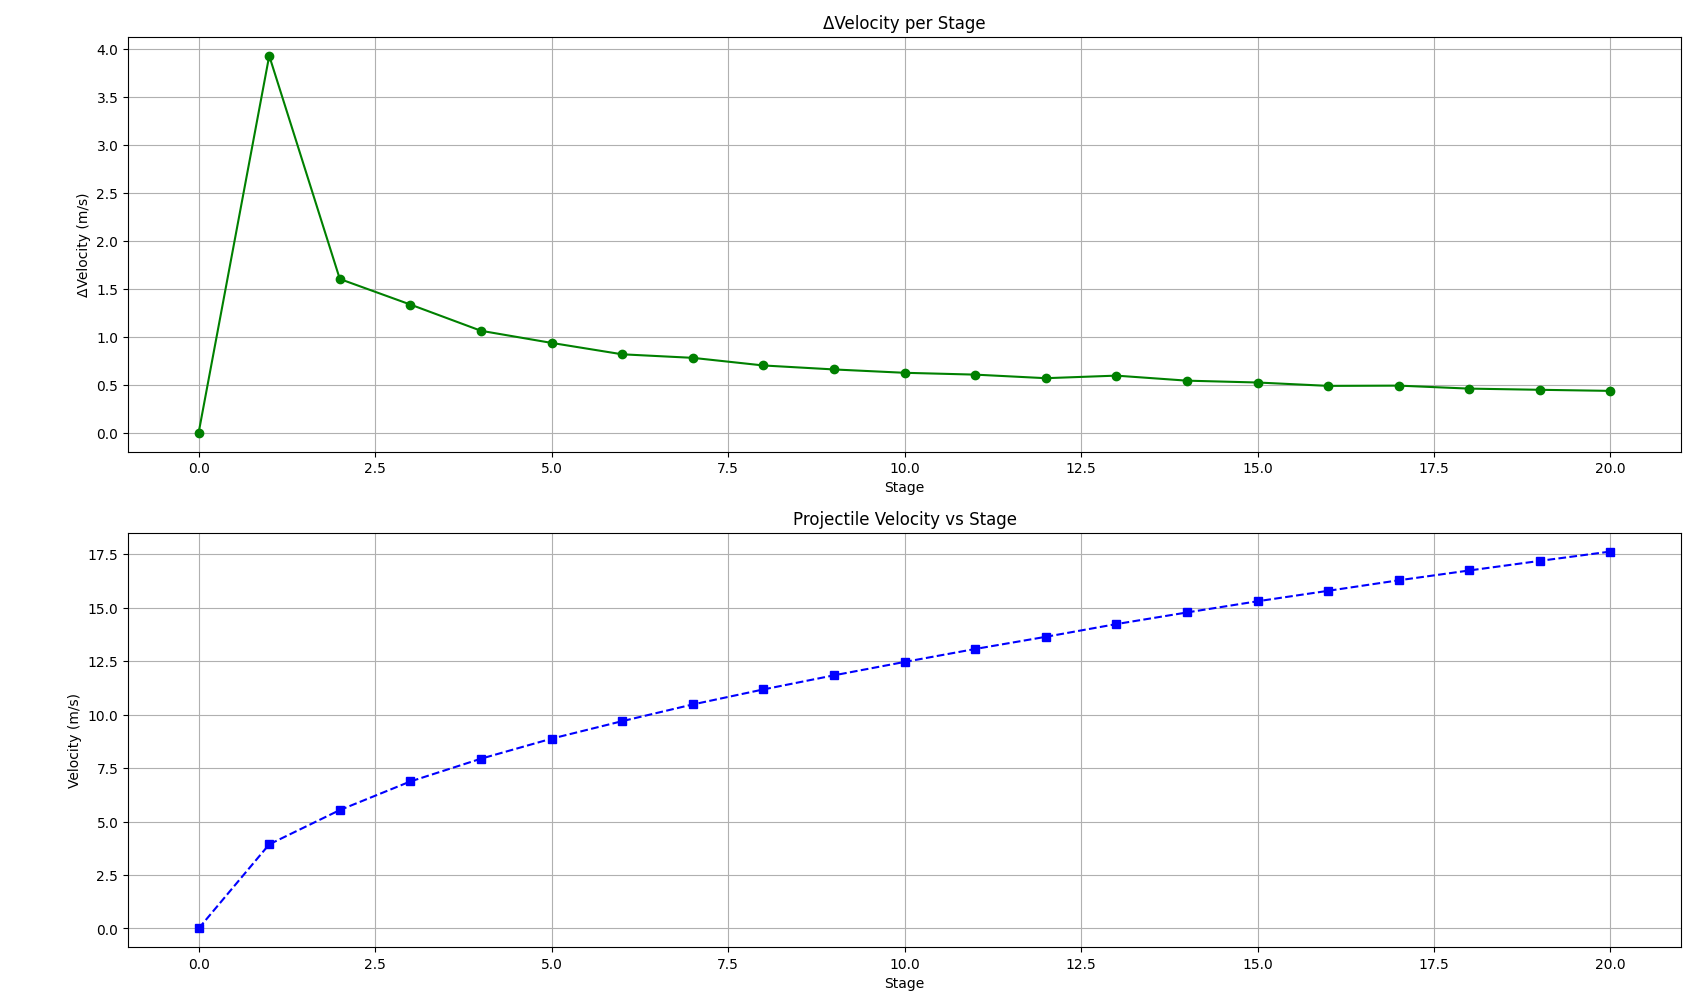
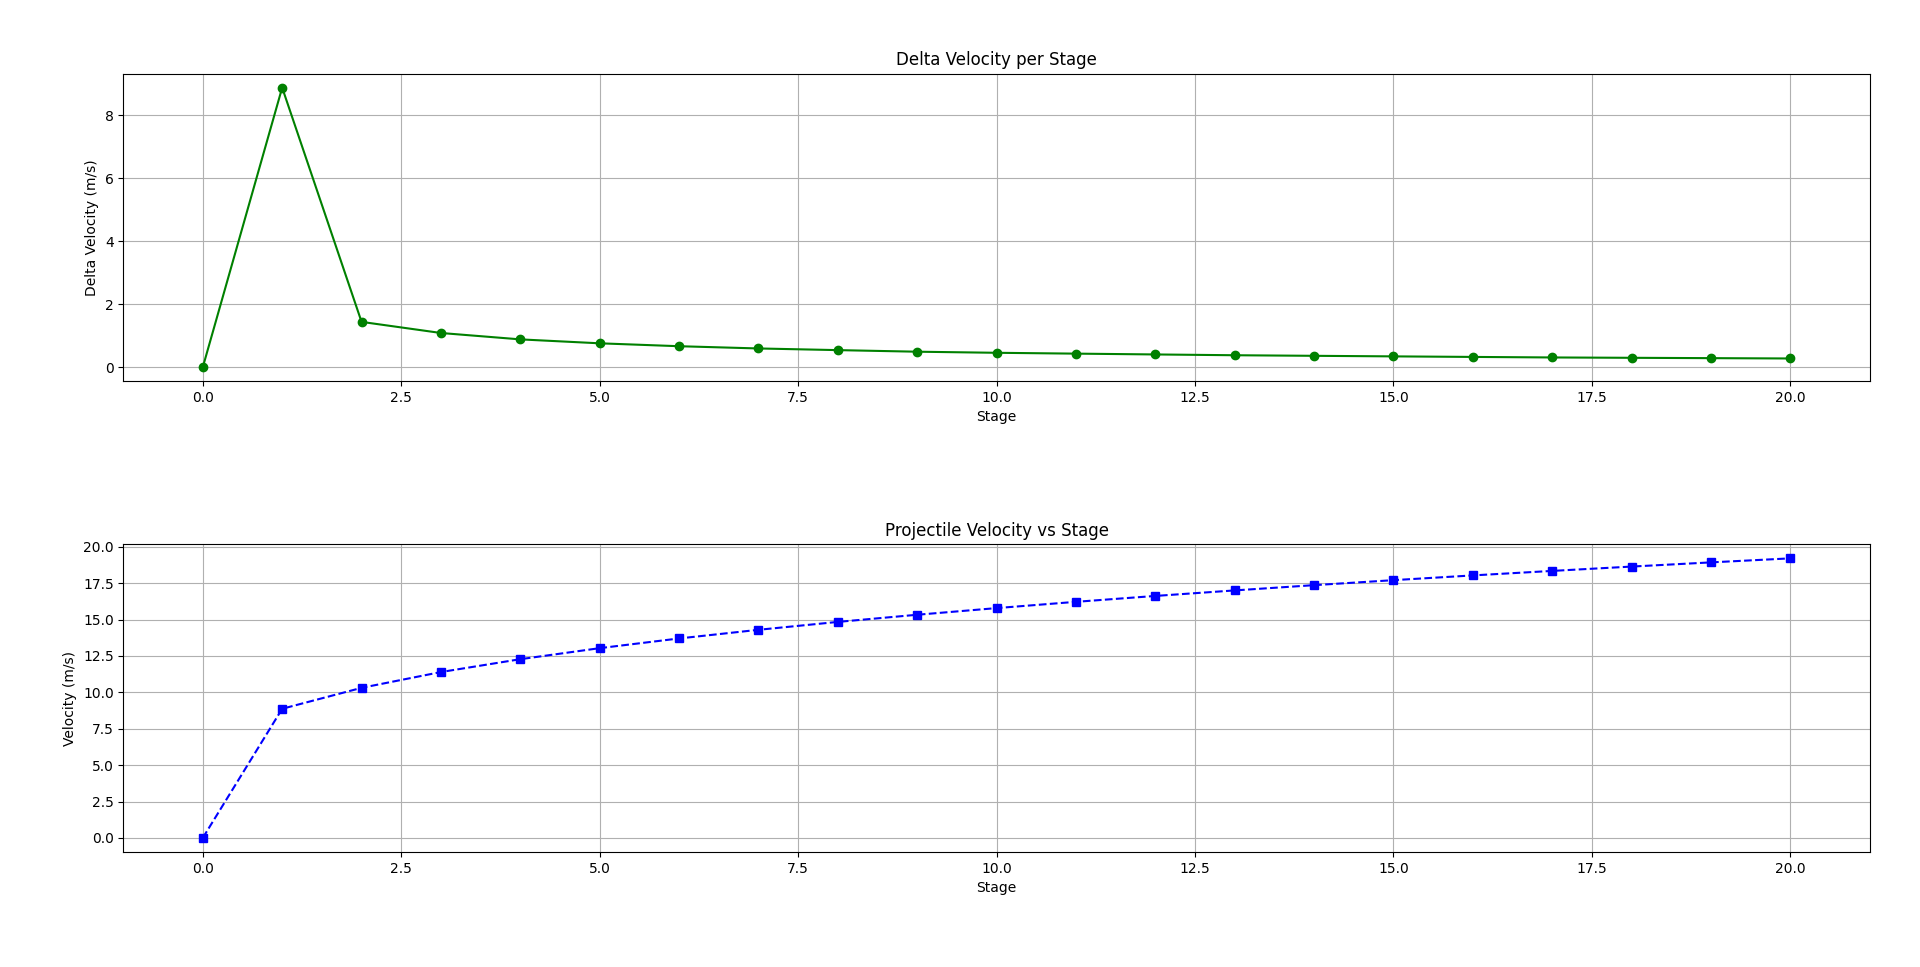
Added Transient behavior to simplified_sim
- Added new simplified_sim with .yaml and the program itself.
- Updated images with new data
- Updated readme to reflect changes

diff --git a/simplified_sim/model.py b/simplified_sim/model.py
@@ -1,0 +1,140 @@
+"""
+File: motor.py
+Author: William Bowley
+Version: 1.1
+Date: 2025-08-08
+
+Description:
+    Simulates a multi-stage coilgun using a simplified
+    physical model.
+
+    Parameters are loaded from a YAML configuration file.
+
+Requirements:
+    - matplotlib
+    - pyyaml
+"""
+
+import math
+import yaml
+import matplotlib.pyplot as plt
+
+# CONSTANTS
+PARAMETER_FILE = "simplified_sim/coilgun.yaml"
+VACCUM_PERM = 4 * math.pi * 1e-7
+
+# Loads in parameters file
+with open(PARAMETER_FILE, "r", encoding="utf-8") as file:
+    params = yaml.safe_load(file)
+
+# Calculated Model parameters
+projectile_prem = VACCUM_PERM * params["projectile"]["relative_perm"]
+time_constant = params["coil"]["inductance"] / params["coil"]["resistance"]
+
+
+def acceleration(
+    time: float,
+    supply_current: float,
+    lr_constant: float,
+    permeability: float,
+    number_turns: float,
+    projectile_mass: float,
+) -> float:
+    """
+    Calculate instantaneous acceleration based on coil current ramp.
+    Based on lorentz force formula and Transient behaviour of inductors
+
+    Args:
+        time: Time since coil energized (s).
+        supply_current: Max coil current (A).
+        lr_constant: Coil L/R time constant (s).
+        permeability: Effective permeability (H/m).
+        number_turns: Coil turns.
+        projectile_mass: Projectile mass (kg).
+
+    Returns:
+        Instantaneous acceleration (m/s^2).
+    """
+    inst_current = supply_current * (1 - math.exp(-time / lr_constant))
+    constant = (permeability * number_turns) / projectile_mass
+    return constant * inst_current ** 2
+
+
+# Data logging & initial conditions
+initial_velocity = 0.0
+time_step = 1e-5
+stage_data = []
+
+for stage in range(params["number_stages"]):
+    elaps_time = 0.0
+    position = 0.0
+    velocity = initial_velocity
+
+    # Accelerate projectile through half coil length
+    while position < 0.5 * params["coil"]["length"]:
+        inst_acceleration = acceleration(
+            elaps_time,
+            params["current"],
+            time_constant,
+            projectile_prem,
+            params["coil"]["turns"],
+            params["projectile"]["mass"],
+        )
+
+        # Calculates upwards from a->v->p with respect to dt
+        velocity += inst_acceleration * time_step
+        position += velocity * time_step
+        elaps_time += time_step
+
+    velocity_exit = velocity
+    delta_v = velocity_exit - initial_velocity
+
+    stage_data.append({
+        "Stage": stage + 1,
+        "Entry Speed (m/s)": initial_velocity,
+        "Exit Speed (m/s)": velocity_exit,
+        "Transit Time (ms)": elaps_time * 1e3,
+        "Δv (m/s)": delta_v,
+    })
+
+    print(
+        f"Stage {stage + 1}: entry={initial_velocity:.3f} m/s, "
+        f"exit={velocity_exit:.3f} m/s, transit={elaps_time*1e3:.3f} ms"
+    )
+    initial_velocity = velocity_exit
+
+
+# Prepare data for plots
+stages = [0] + [d["Stage"] for d in stage_data]
+delta_velocities = [0] + [d["Δv (m/s)"] for d in stage_data]
+projectile_velocity_in_time = [0] + [d["Exit Speed (m/s)"] for d in stage_data]
+
+# Change in velocity between stages (0-1, 1-2, 2-3, etc)
+plt.subplot(2, 1, 1)
+plt.plot(
+    stages,  # X-axis
+    delta_velocities,  # Y-axis
+    marker='o',
+    linestyle='-',
+    color='green')
+plt.title("Delta Velocity per Stage")
+plt.xlabel("Stage")
+plt.ylabel("Delta Velocity (m/s)")
+plt.grid(True)
+
+# Change in velocity over stages
+plt.subplot(2, 1, 2)
+plt.plot(
+    stages,  # X-axis
+    projectile_velocity_in_time,  # Y-axis
+    marker='s',
+    linestyle='--',
+    color='blue'
+)
+plt.title("Projectile Velocity vs Stage")
+plt.xlabel("Stage")
+plt.ylabel("Velocity (m/s)")
+plt.grid(True)
+
+plt.tight_layout()
+plt.show()

diff --git a/readme.md b/readme.md
@@ -35,11 +35,12 @@ The coil is turned off just before the projectile reaches its center to maximize
 
 
 ## Notes  
-- Velocity gain per stage **decreases over time**, as shown below. This happens because kinetic energy increases with the square of velocity (E ∝ v²), so each additional stage must deliver more energy to achieve the same increase in speed.
+- **Velocity gain per stage decreases over stages**, as shown below. This happens because kinetic energy increases with the square of velocity (E ∝ v²), so each additional stage must deliver more energy to achieve the same increase in speed. Additionally, as the object moves faster, it spends less time in each stage, reducing the time available to apply force - further limiting velocity gain.
+
 
   <img src="images/20-stages-graph.png" alt="Velocity vs Stage" height="400"/>
 
-  *Velocity vs. stage graph for a 20-stage coilgun powered by a 40 A supply, showing diminishing returns in velocity gain per stage.*
+  *Velocity vs. stage graph for a 20-stage coilgun powered by a 40 A supply, showing diminishing returns in velocity gain per stage. [`/simplified_sim`](./simplified_sim/)*
 
 - Original PCB files were lost — a **new PCB design** is required to rebuild the system  
 
